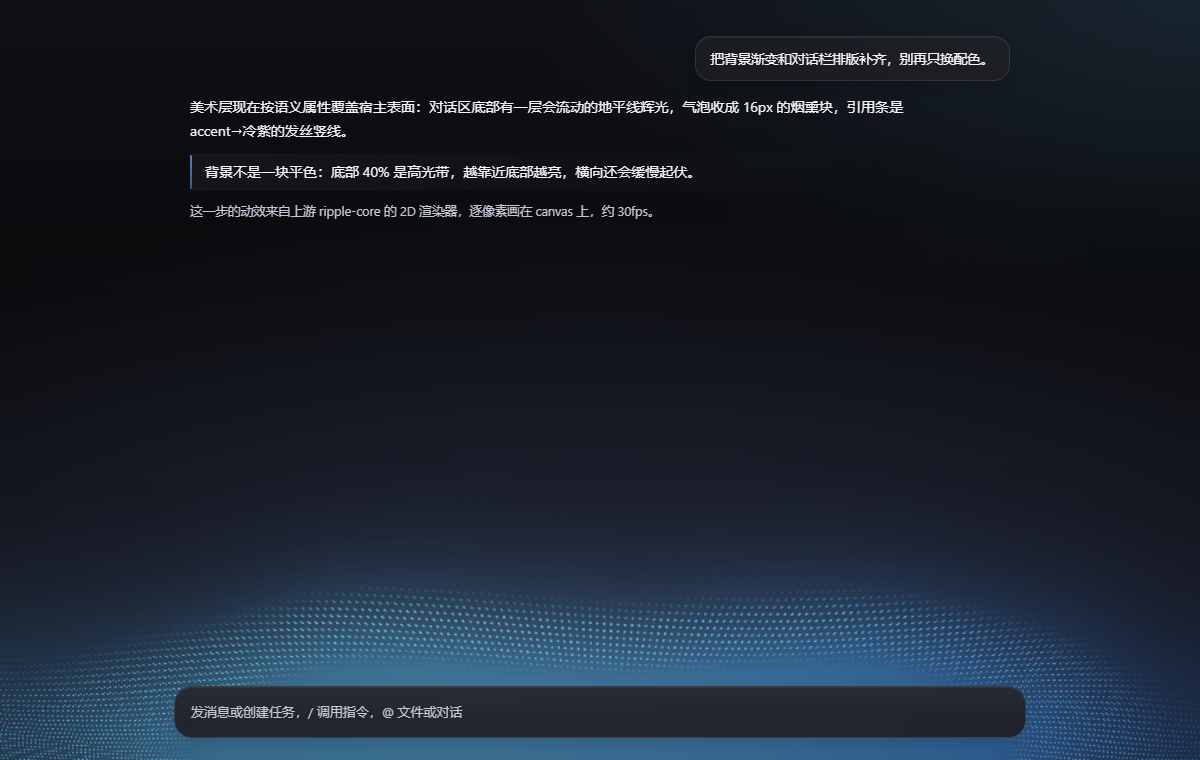
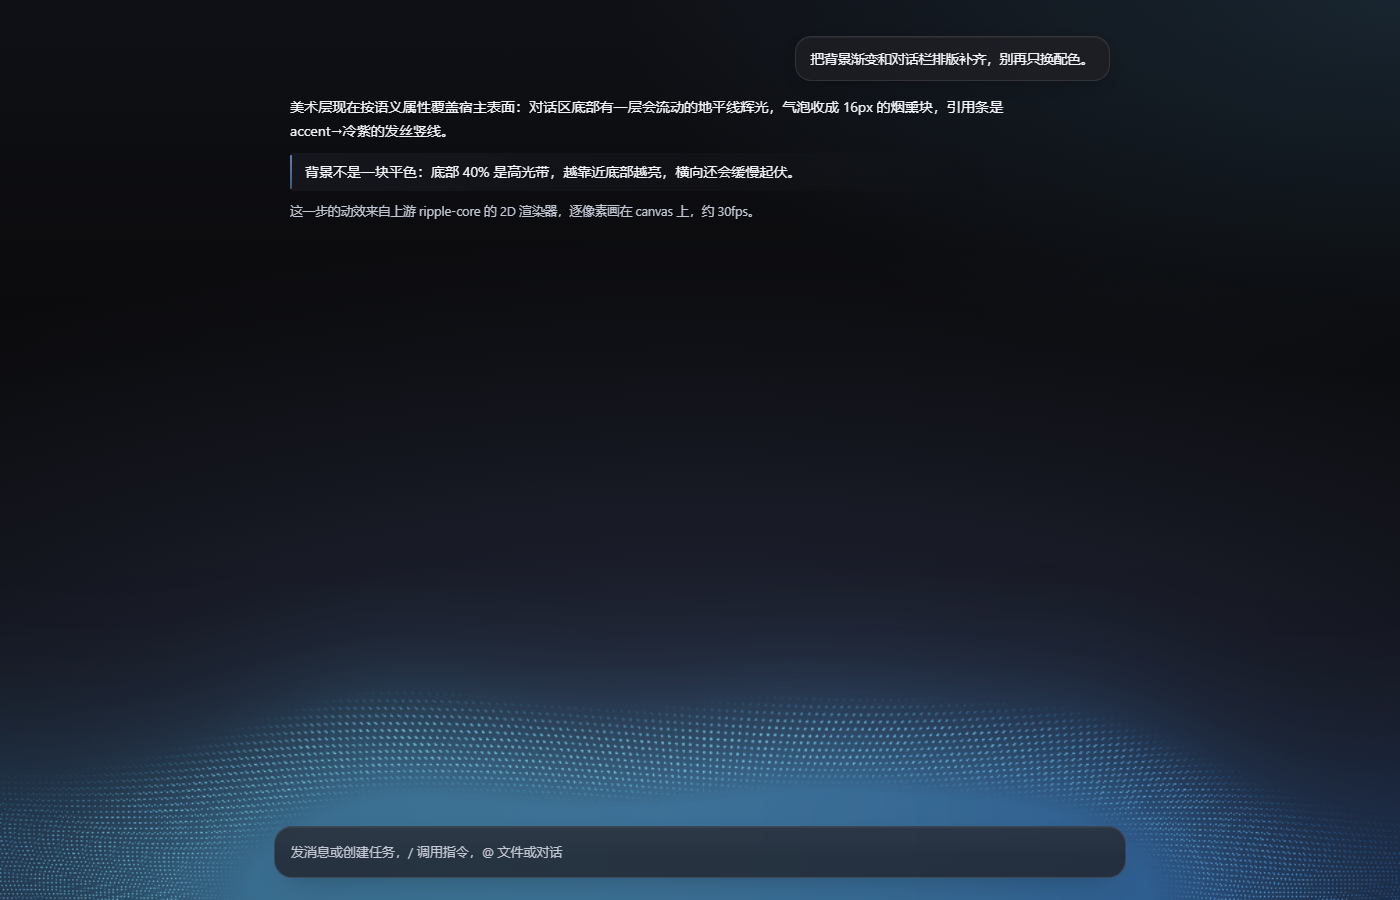
fix(aura): fade the canvas top edge so the horizon never shows a seam (2.4.3)

Changed region(s): [[0.0, 0.7868, 1.0, 1.0], [0.1542, 0.0303, 0.8325, 0.2421], [0.1542, 0.2724, 0.555, 0.3026]]

diff --git a/client.js b/client.js
@@ -22,7 +22,7 @@ window.__ModuleLoader__.load({
     const COMPONENTS_API = '/compression-tiers/api/components'
     const TOOLS_API = '/compression-tiers/api/tools'
     const VENDOR_BASE = '/compression-tiers/vendor/'
-    const PLUGIN_VERSION = '2.4.2'
+    const PLUGIN_VERSION = '2.4.3'
     const PALETTES = [
       { id: 'host', labelKey: 'paletteHost' },
       { id: 'obsidian', labelKey: 'paletteObsidian' },
@@ -1982,6 +1982,10 @@ body[data-ct-art='on'] .ct-aura-host canvas {
   display: block;
   width: 100%;
   height: 100%;
+  /* The horizon can reach past the top of its own canvas on a tall column; the
+     fade turns that edge into a soft arrival instead of a seam across the chat. */
+  -webkit-mask-image: linear-gradient(180deg, transparent 0%, #000 16%, #000 100%);
+  mask-image: linear-gradient(180deg, transparent 0%, #000 16%, #000 100%);
 }
 /* ---- Appearance page ---------------------------------------------------- */
 .ct-swatches {

diff --git a/test/vendor.test.js b/test/vendor.test.js
@@ -129,7 +129,7 @@ test('the vendor route serves exactly the three shipped scripts', () => {
 test('the package declares GPL-3.0-only and ships the optical modules', () => {
   const manifest = JSON.parse(readFileSync(join(root, 'package.json'), 'utf8'))
   assert.equal(manifest.license, 'GPL-3.0-only')
-  assert.equal(manifest.version, '2.4.2')
+  assert.equal(manifest.version, '2.4.3')
   for (const entry of ['vendor', 'NOTICE', 'THIRD_PARTY_NOTICES.md']) {
     assert.ok(manifest.files.includes(entry), `files is missing ${entry}`)
   }

diff --git a/AGENTS.md b/AGENTS.md
@@ -157,3 +157,4 @@
 - 2026-11-25：**2.4.0 地平线辉光（上游真正的动效）**（用户问「跟 RMvdesi/obsidian-prism 一样吗？我感觉他有动效呢」）：查上游仓库后确认，2.0.0–2.3.0 只移植了 `vial-core.js` 与 `dual-mascot-rig.js`，而它的「动效」是 `conv-aura.js` + `ripple-core.js` 里的 canvas 程序化渲染（逐像素地平线辉光、halftone 点阵、波与噪声），CSS 里那堆 keyframes 只是 Obsidian 自身 DOM 的微交互。现在新增 `vendor/obsidian-prism/horizon-glow.js`（2026-12-01 从 `ripple-core.js` 逐字抽出的 2D 渲染器 + `valueNoise` / `smooth` / `horizonPrismRgb` / `DEFAULT_HORIZON_AURA` 等依赖，带抽取说明，不含 GL / glyph / ripple 路径），宿主白名单与客户端 `VENDOR_SCRIPTS` 同步加第三个名字；`client.js` 新增控制器（`auraRuntime` / `auraAllowed` / `auraMotion` / `syncAura` / `drawAuraFrame` / `watchAura`）：在 `[data-conversation-region='chat']` 第一个子节点挂 `.ct-aura-host` + canvas（底部 32%、`z-index: 0`，`[data-conversation-scroll]` 提到 `1`），`rAF` 上限 ~30fps，`motion` 三档（`subtle` 0.45 速 / 0.5 强度、`off` 只画一帧）、`host` 配色或 `art: false` 时整块移除、`aria-hidden` 且不接点击；渲染 `reach` 用 0.72 而非上游 0.47（宿主输入卡压住底部约 150px）。`NOTICE` 补 `horizon-glow.js` 的衍生声明。测试 216 → 219 条（vendor 出处头 / 抽取范围 / `mount` 行为 / 无 2d context 降级；客户端挂载、分档、`host` 撤下、`aria-hidden`），离线舞台 `temp/aura-preview.mjs` + `cdp-shot` 出图，新增截图 `docs/screenshots/aura.png`；第 23 条拆出「地平线辉光是美术层唯一的动效」、范围与事实来源、验证要求、README、[docs/UI.md](docs/UI.md)（新增「地平线辉光」一节）、CHANGELOG 同步；版本 2.4.0。
 - 2026-11-25：**2.4.1 滑块几何对齐参考插件 + 辉光加明显**（用户说「开源的进度条好像不是这个样子的」「会话的对话栏里没动效吗」）：滑块换成 `dsh-codex-effort-slider` 的几何——28px 胶囊轨道（`--dsw-alias-border-l1`）、填充 `width: calc(14px + (100% - 28px) × 位置)` 停在旋钮圆心、28px 白色圆钮、3px 档位点，满档才转紫并加 `data-energy='1'` 的泛光；切面宝石 SVG 与按位置取色的色阶删除。辉光高度 32% → 40%、`reach` 0.72 → 0.85、深色强度 0.95，并在 canvas 下面加 `.ct-aura-fallback` 兜底层（两个漂移径向色块，首帧后淡出；渲染器起不来时它就是这一层）。外观设置启动读取失败改为按 1.5s × 次数退避重试 5 次，动效档位写进 `<body>` 的 `data-ct-motion`。测试仍 219 条（补 `data-ct-motion`、兜底层样式断言；几何用例改成断言填充与旋钮同轴）。截图 `docs/screenshots/effort.png`、`aura.png` 重出；第 23 条、验证要求、README、[docs/UI.md](docs/UI.md)、CHANGELOG 同步；版本 2.4.1。
 - 2026-11-25：**2.4.2 美术层与配色解耦 + 辉光到底**（用户反馈：另一台机器升到 2.4.1、新会话既没有渐变也没有动效；本机辉光「没到底」）：根因是 2.3.0 把美术层绑在「选了配色」上——`host`（默认值）等于整层关掉，所以新装的机器永远看不到。现在 `applyOptics()` 只按 `appearance.art` 决定开关（默认开），配色只决定用哪套 token 画；外观页的「光学外观」开关不再在跟随宿主时置灰。辉光「没到底」是因为 DSH 的 `[data-composer-seat]` 在底部 36px 铺了一条到 `bg-base` 的遮罩，现在美术层打开时该遮罩让位、输入卡改 76% 半透明，辉光一直到底。测试仍 219 条（改断言：`host + art:true` → `data-ct-art='on'`、外观页开关可点且无 `title`）。离线舞台新增「跟随宿主 + 空会话」变体 `temp/ct-preview/aura-hero-host.html` 并出图；README、[docs/UI.md](docs/UI.md)、第 23 条同步；版本 2.4.2。
+- 2026-11-25：**2.4.3 辉光顶部软过渡**（用户截图显示辉光是一条上下都有硬边的横带）：下边是输入卡底遮罩（2.4.2 修），上边是画布顶边——高窗口下 `reach` 0.85 的地平线画到了画布之外。给 `.ct-aura-host canvas` 加 16% 的 `mask-image` 顶淡出，任何尺寸下都软过渡；`docs/screenshots/aura.png` 按 1400×900 重出。测试仍 219 条；版本 2.4.3。

diff --git a/CHANGELOG.md b/CHANGELOG.md
@@ -2,6 +2,12 @@
 
 > 版本号以 `package.json` 为准，每个发布版本对应一个 `vX.Y.Z` tag。安装方可以锁 `git+https://github.com/Homer4033/dsh-harness-toolbox.git#v2.4.0`。
 
+## 2.4.3 — 2026-11-25
+
+- **辉光顶部不再有一条硬缝**：用户截图（2.4.1）里辉光是一条**两端都有硬边**的横带——下边被输入卡的底遮罩截断（2.4.2 已修），上边是画布自己的顶边：窗口高的时候 `reach` 0.85 的地平线会画到画布之外，于是出现一条横贯对话区的直线。现在画布顶部加 16% 的 `mask-image` 淡出，任何窗口尺寸下都是软过渡。
+- 2.4.2 的改动一并生效：美术层只由「光学外观」开关决定（跟随宿主也画），输入卡底遮罩让位、卡片 76% 半透明，辉光一直到底。
+- 测试仍 219 条；`docs/screenshots/aura.png` 按 1400×900 重出（顶部已是软过渡）。
+
 ## 2.4.2 — 2026-11-25
 
 - **美术层不再依赖「选一套配色」**：用户报「另一台机器升到 2.4.1、新会话既没有渐变也没有动效」。根因是 2.3.0 把美术层绑在「配色 ≠ 跟随宿主」上——而 `跟随宿主` 正是默认值，所以新装的机器上这一整层永远是关的，哪怕开关显示「开」。现在 `applyOptics()` 只按 `appearance.art` 决定 `data-ct-art`（默认开），配色只决定用哪套 token 画：跟随宿主的机器用 DSH 自己的颜色画泛光、气泡与辉光，新会话（含空会话的首页）也有。
